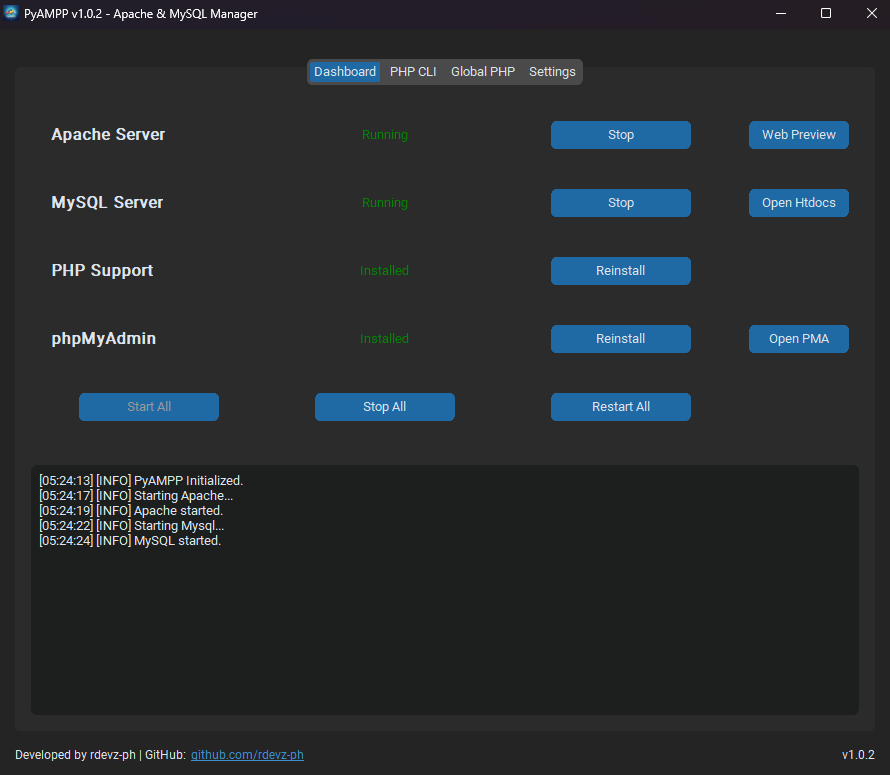
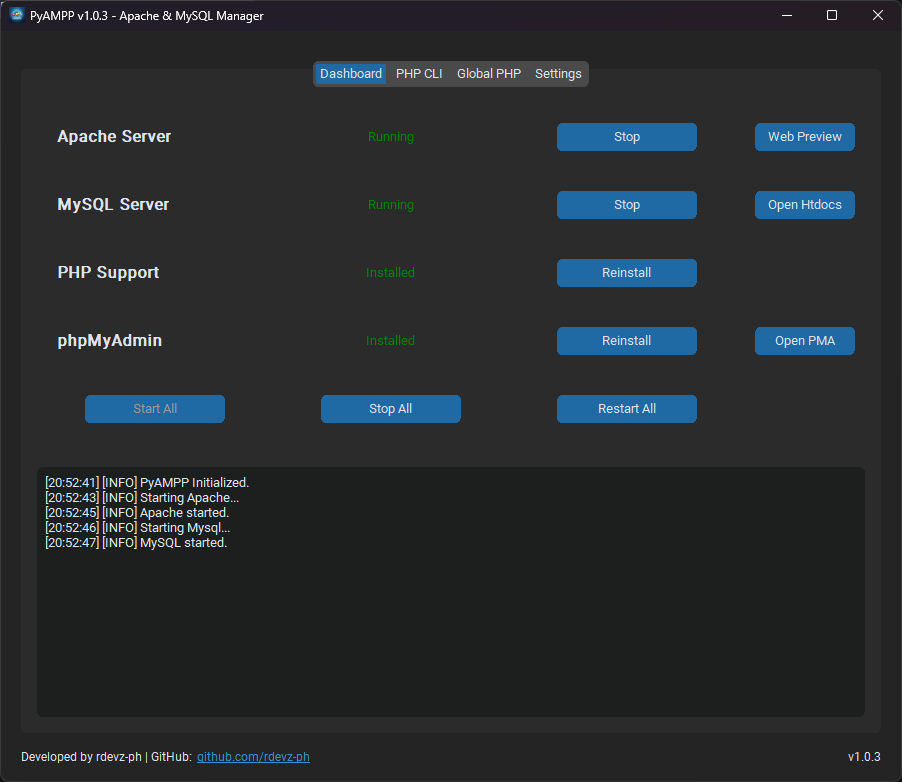
docs: update presets transparency and bump version to v1.0.3

diff --git a/docs/index.html b/docs/index.html
@@ -112,7 +112,7 @@
 
             <section id="presets">
                 <h2>Supported Versions (Presets)</h2>
-                <p>PyAMPP v1.0.2 supports a wide range of verified component versions out of the box:</p>
+                <p>PyAMPP v1.0.3 supports a wide range of verified component versions out of the box. For transparency, all official binary download URLs are documented in the <code>presets.json</code> file within the repository.</p>
                 <div class="preset-container">
                     <ul>
                         <li><strong>PHP:</strong> 8.4.20 (VS17), 8.3.30, 8.2.30, 8.1.34, 8.0.30, 7.4.33</li>

diff --git a/README.md b/README.md
@@ -38,7 +38,7 @@ PyAMPP is an advanced Windows-based orchestration utility designed to automate t
 
 ## Supported Versions (Presets)
 
-PyAMPP v1.0.2 supports a wide range of verified component versions:
+PyAMPP v1.0.3 supports a wide range of verified component versions. For full transparency, you can verify all official binary download URLs in the [presets.json](presets.json) file:
 
 - **PHP:** 8.4.20 (VS17), 8.3.30, 8.2.30, 8.1.34, 8.0.30, and 7.4.33 (Archive).
 - **Apache:** 2.4.66 (VS17).
